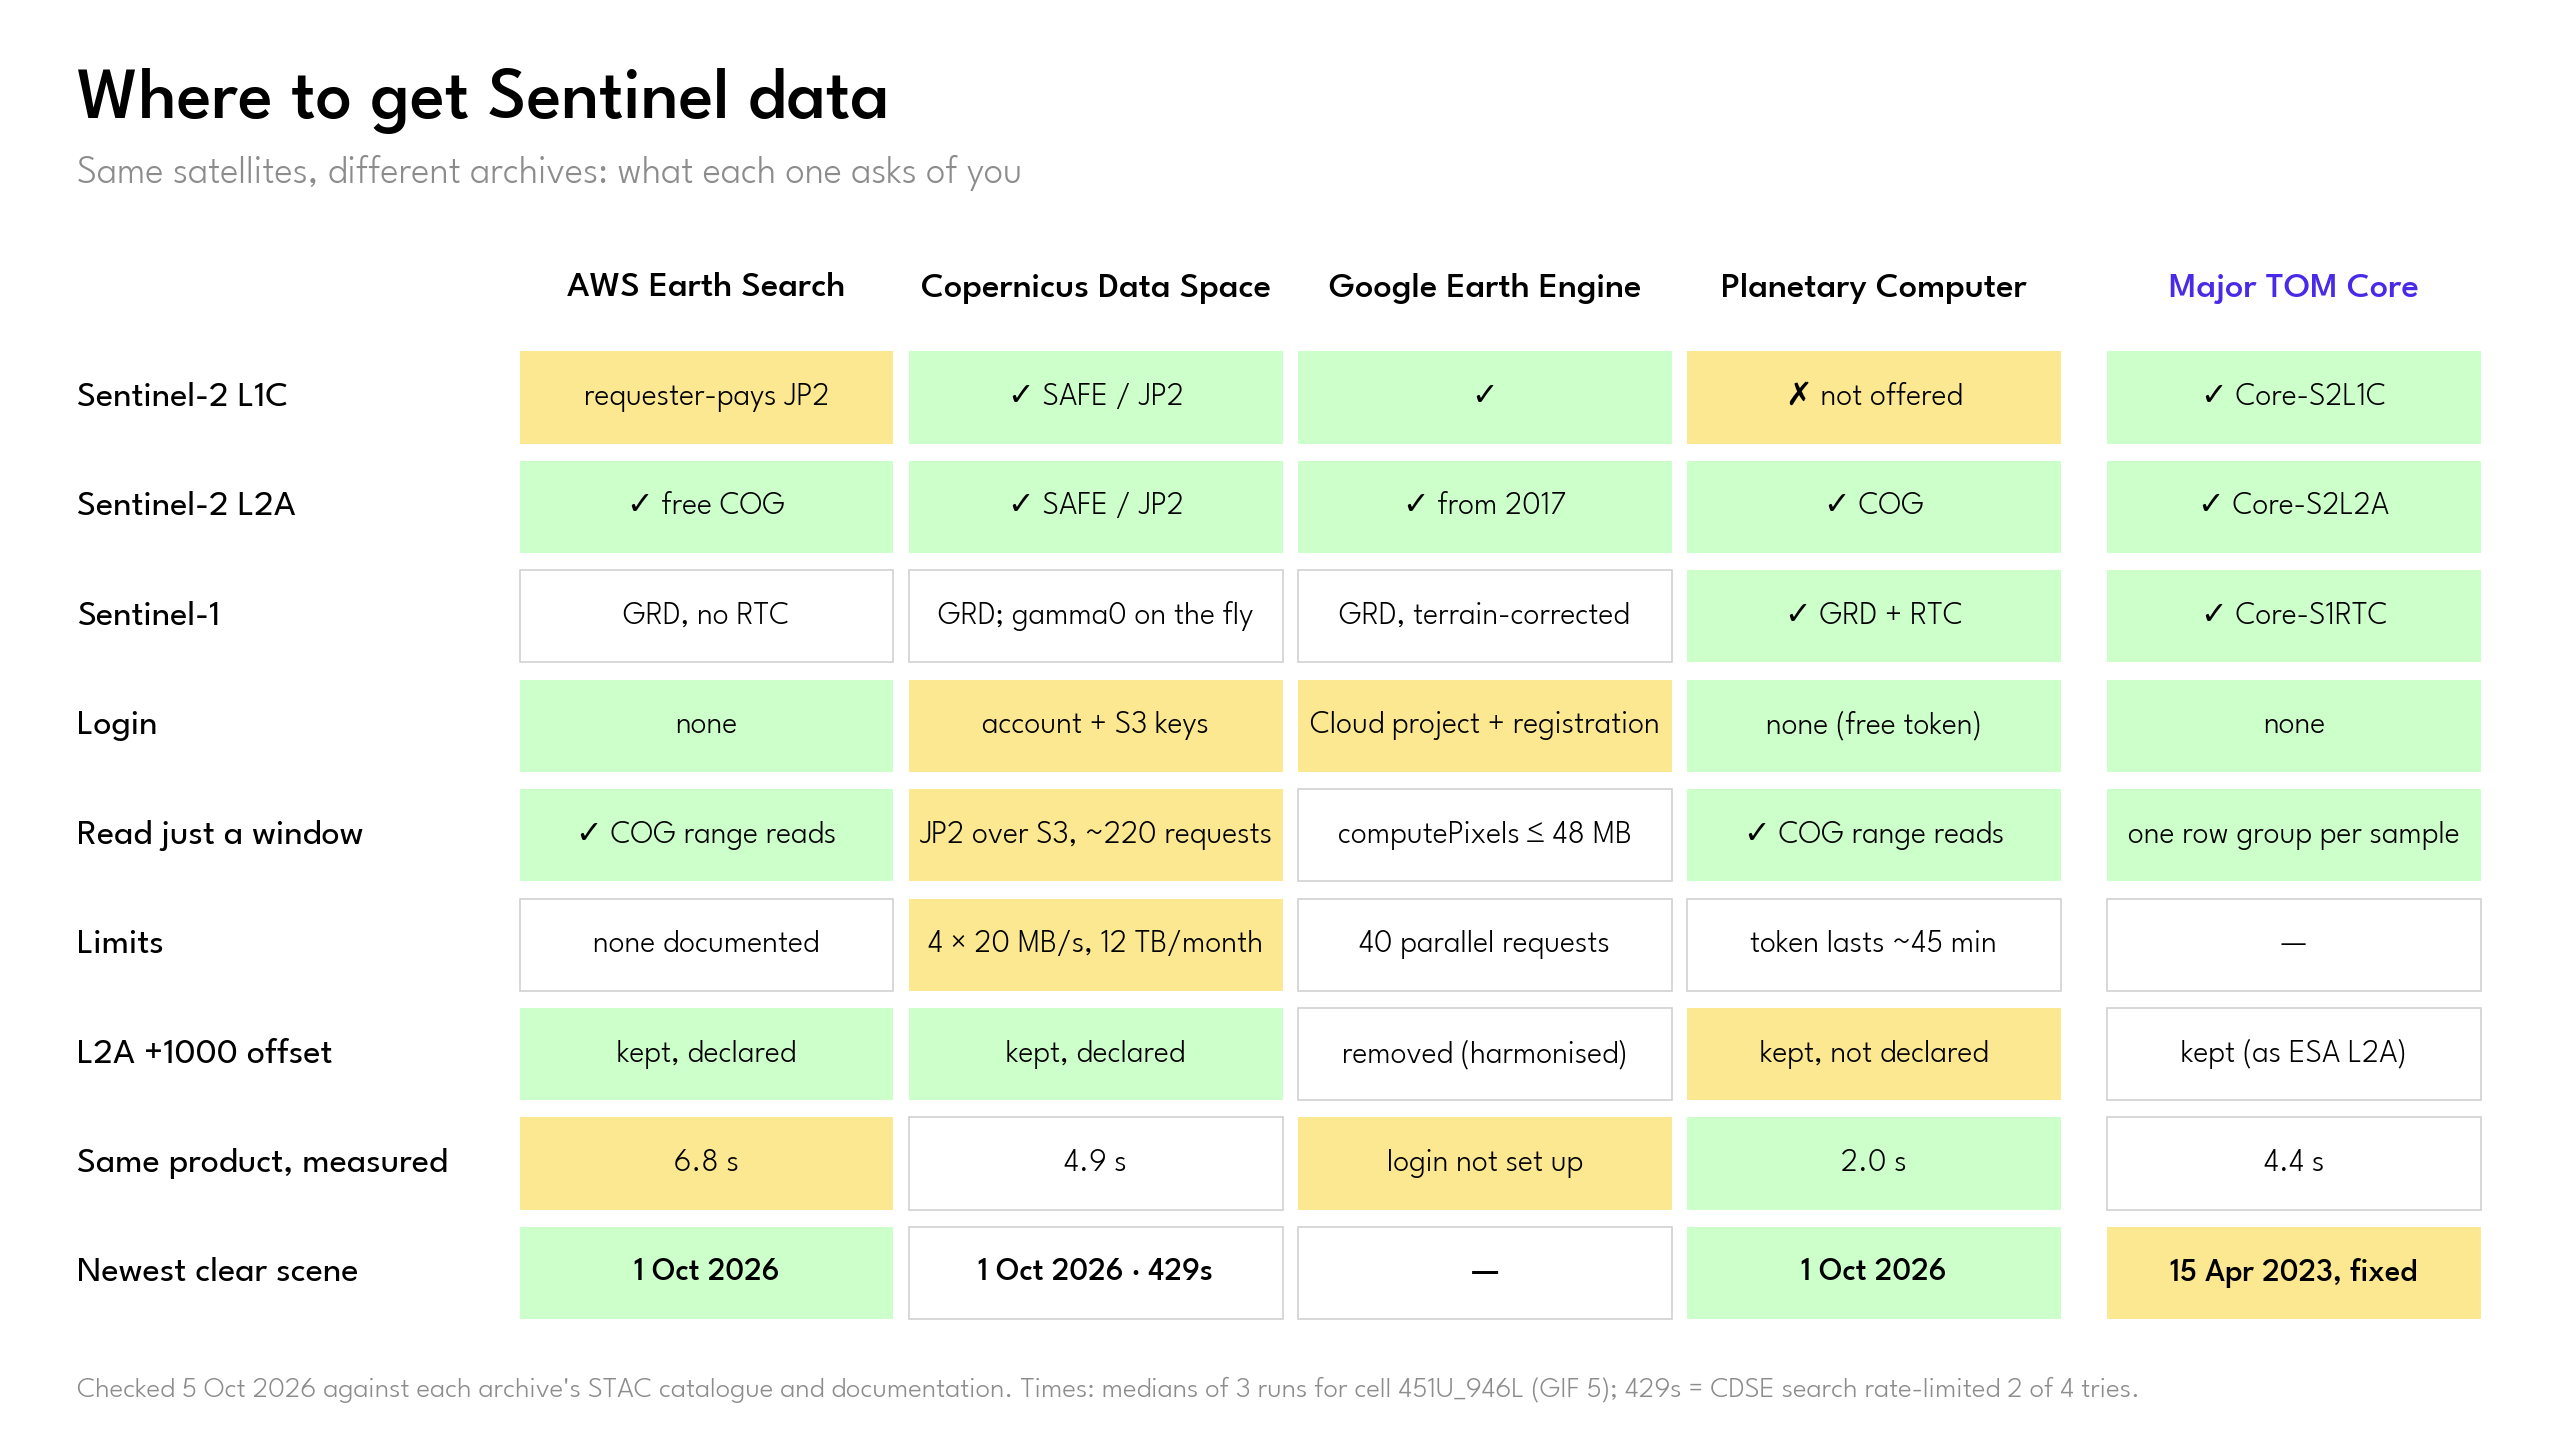
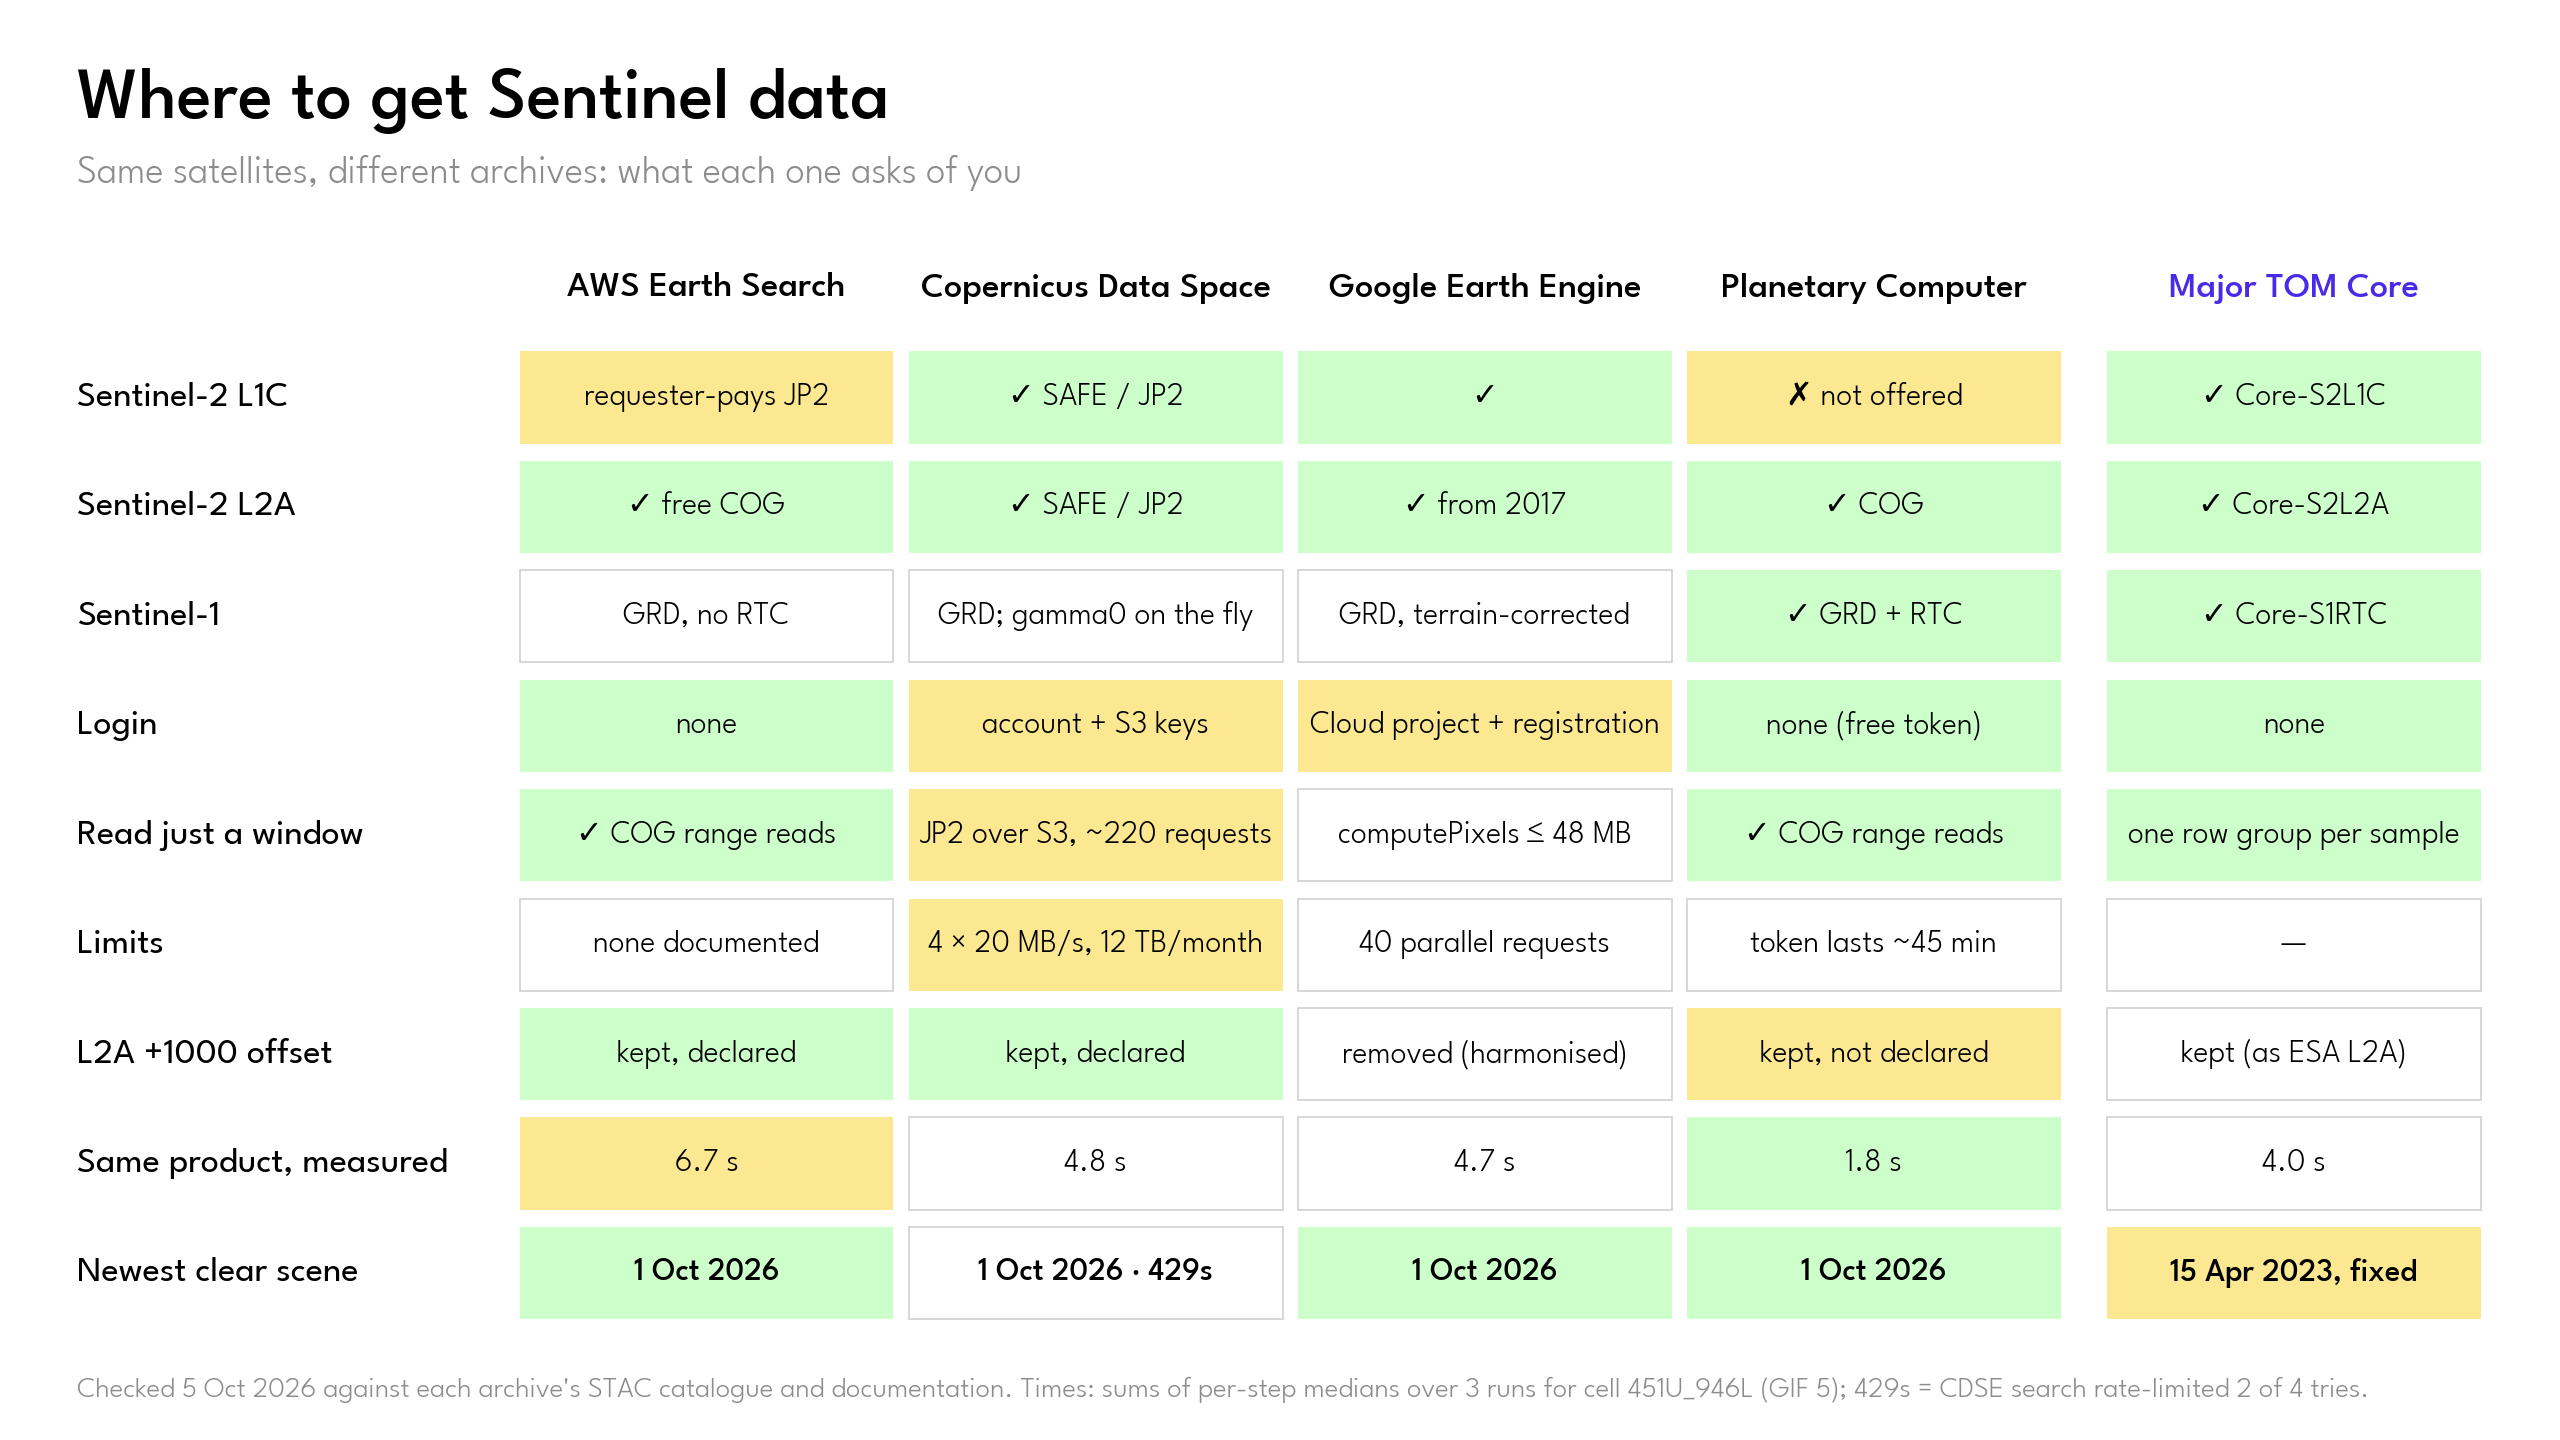
Add Earth Engine lane to the acquisition races
Authenticate with the wiki-eo service account, rerun both races for
Earth Engine, and align the archive matrix with the per-step medians
shown in GIF 5. Rendered GIFs are left out of this commit.

diff --git a/docs/animations/fig_archives.py b/docs/animations/fig_archives.py
@@ -30,9 +30,9 @@ ROWS = [  # label, one (text, tone) per column
                 ("token lasts ~45 min", N), ("—", N)]),
     ("L2A +1000 offset", [("kept, declared", G), ("kept, declared", G), ("removed (harmonised)", N),
                           ("kept, not declared", Y_), ("kept (as ESA L2A)", N)]),
-    ("Same product, measured", [("6.8 s", Y_), ("4.9 s", N), ("login not set up", Y_), ("2.0 s", G),
-                                ("4.4 s", N)]),
-    ("Newest clear scene", [("1 Oct 2026", G), ("1 Oct 2026 · 429s", N), ("—", N), ("1 Oct 2026", G),
+    ("Same product, measured", [("6.7 s", Y_), ("4.8 s", N), ("4.7 s", N), ("1.8 s", G),
+                                ("4.0 s", N)]),
+    ("Newest clear scene", [("1 Oct 2026", G), ("1 Oct 2026 · 429s", N), ("1 Oct 2026", G), ("1 Oct 2026", G),
                             ("15 Apr 2023, fixed", Y_)]),
 ]
 TONE = {G: mix(PAPER, MINT, 0.85), Y_: mix(PAPER, YELLOW, 0.45), N: PAPER}
@@ -64,7 +64,7 @@ def main() -> None:
             text(fig, x + col_w / 2, y, value, size=11.5, weight=500 if i == len(ROWS) - 1 else 300,
                  ha="center", va="center")
     text(fig, 0.03, 0.035, "Checked 5 Oct 2026 against each archive's STAC catalogue and documentation. "
-                           "Times: medians of 3 runs for cell 451U_946L (GIF 5); 429s = CDSE search rate-limited 2 of 4 tries.",
+                           "Times: sums of per-step medians over 3 runs for cell 451U_946L (GIF 5); 429s = CDSE search rate-limited 2 of 4 tries.",
          size=10.5, color=INK_SOFT, va="center")
     OUT.mkdir(exist_ok=True)
     fig.savefig(OUT / "archives_matrix.png", dpi=200, facecolor=PAPER)

diff --git a/docs/animations/gif5_acquisition.py b/docs/animations/gif5_acquisition.py
@@ -119,9 +119,12 @@ def draw_lane(ax, fig, key: str, y: float, lane: dict | None, errors: list[dict]
     if lane and clock >= start:                                       # finished: result + date
         done = level * phase_in(clock - start)
         text(fig, 0.80, y + 0.022, f"✓ {start:.1f} s", size=16, weight=600, color=INDIGO, va="center", level=done)
-        req = f"{lane['requests']} requests · " if lane["requests"] else ""
-        text(fig, 0.80, y - 0.008, f"{req}{lane['bytes'] / 1e6:.1f} MB", size=11, color=INK_SOFT, va="center",
-             level=done)
+        if lane["bytes"]:
+            req = f"{lane['requests']} requests · " if lane["requests"] else ""
+            detail = f"{req}{lane['bytes'] / 1e6:.1f} MB"
+        else:                                                         # Earth Engine: no GDAL byte count
+            detail = "1 computePixels call"
+        text(fig, 0.80, y - 0.008, detail, size=11, color=INK_SOFT, va="center", level=done)
         old = race == "recent" and key == "major-tom"
         label = f"{dt.date.fromisoformat(lane['acquired']):%d %b %Y}" + (" · fixed sample" if old else "")
         text(fig, 0.80, y - 0.036, label, size=11, weight=500 if old else 300, va="center", level=done,

diff --git a/docs/animations/acquire_snowbird.py b/docs/animations/acquire_snowbird.py
@@ -179,8 +179,10 @@ def lane_cdse(race: str, clock: Clock) -> dict[str, np.ndarray]:
 def lane_gee(race: str, clock: Clock) -> dict[str, np.ndarray]:
     """Earth Engine: one computePixels call on the window's exact UTM grid (no resampling)."""
     import ee
+    key = Path.home() / ".config" / "earthengine" / "ee-sa.json"     # service account of project wiki-eo
     with clock.step("access"):
-        ee.Initialize(project="wiki-eo")
+        email = json.loads(key.read_text())["client_email"]          # read only; never printed
+        ee.Initialize(ee.ServiceAccountCredentials(email, str(key)), project="wiki-eo")
     with clock.step("search"):
         col = ee.ImageCollection("COPERNICUS/S2_SR_HARMONIZED").filter(ee.Filter.eq("MGRS_TILE", TILE))
         if race == "same":

diff --git a/docs/reports/2026-10-05-acquisition-v2.md b/docs/reports/2026-10-05-acquisition-v2.md
@@ -63,6 +63,15 @@ Grid icon replaced by a small orthographic globe of the official grid at 2,500 k
 
 - `style.py` `to_palette`: colour matching in chunks of 8,192 colours. The first race render was killed (exit 137) by a multi-GB temporary from photo thumbnails.
 
+## Update: Earth Engine lane
+
+`lane_gee` authenticates with the wiki-eo service account (`~/.config/earthengine/ee-sa.json`, read only for `client_email`, never printed), as Miko specified.
+
+    email = json.loads(key.read_text())["client_email"]          # read only; never printed
+    ee.Initialize(ee.ServiceAccountCredentials(email, str(key)), project="wiki-eo")
+
+Sums of per-step medians, 3 runs each: race A 4.7 s (access 1.37, search 0.50, computePixels 2.84); race B 4.6 s, scene 2026-10-01. No byte count: the traffic does not go through GDAL. The six earlier "login missing" records were moved out of `acquisition_runs.jsonl`. GIF 5 and the matrix now show sums of per-step medians, so both slides give the same numbers.
+
 ## Decisions
 
 - Integer filters over `grid_cell` for the Major TOM lookup: 2.5 s vs 11 s; what an expert would write.
@@ -72,7 +81,6 @@ Grid icon replaced by a small orthographic globe of the official grid at 2,500 k
 
 ## Known gaps
 
-- Earth Engine lanes need `earthengine authenticate` on this machine (or a service-account key path from Miko).
 - Times are from our server; location not stated on slides.
 - Major TOM still reads its v1 1068 px window; the others the v2 1056 px window.
 - A cell index for Major TOM metadata (sorted by cell, or a small lookup file) would cut its 2.5 s lookup; candidate for WS1/WS4.

diff --git a/LOG.md b/LOG.md
@@ -1,5 +1,6 @@
 # Log
 
+- 2026-10-05 Add Earth Engine lane (service account) to the acquisition races -> [report](docs/reports/2026-10-05-acquisition-v2.md)
 - 2026-10-05 Re-measure acquisition with cloud-native reads, add CDSE lane, race B, pole slide -> [report](docs/reports/2026-10-05-acquisition-v2.md)
 - 2026-10-05 Add workflow GIF, Snowbird acquisition race, archive matrix; fix GIF background to pure white -> [report](docs/reports/2026-10-05-acquisition-gifs.md)
 - 2026-10-04 Add tutorial GIFs: grid, anchoring, multiples of 12, trade-off -> [report](docs/reports/2026-10-04-tutorial-gifs.md)
